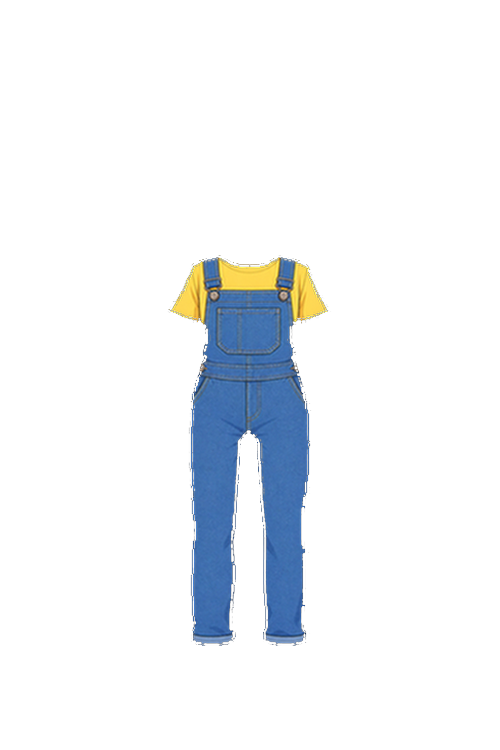
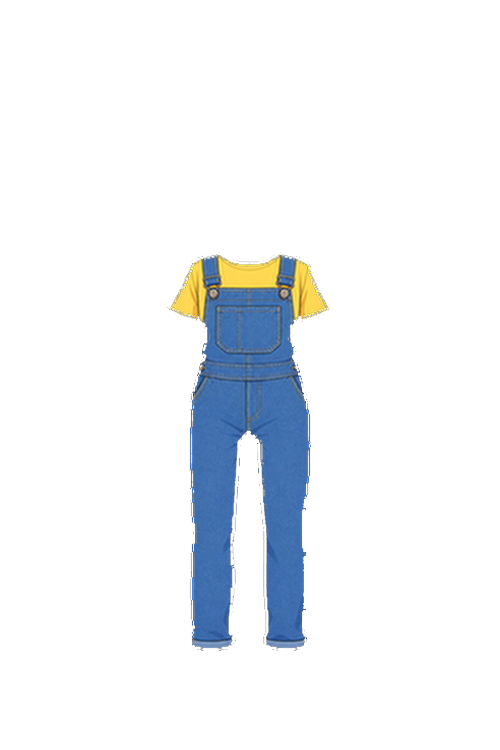
fix: オーバーオール・パジャマ2%拡大
Claude-Session: https://claude.ai/code/session_01XMvAfF4jxf9CbKyjmGTEy4

diff --git a/osewa.html b/osewa.html
@@ -803,8 +803,8 @@ window.onerror = function(msg, src, line) {
 var CLOTHES = [
   { name: 'ピンクドレス', img: 'doll_cloth_1.png?v=9', color: '#f9a8d4', shape: 'dress' },
   { name: 'みずいろドレス', img: 'doll_cloth_2.png?v=7', color: '#93c5fd', shape: 'dress' },
-  { name: 'オーバーオール', img: 'doll_cloth_3.png?v=17', color: '#5b8dbf', shape: 'overalls' },
-  { name: 'パジャマ', img: 'doll_cloth_4.png?v=16', color: '#f9c5d1', shape: 'pajama' },
+  { name: 'オーバーオール', img: 'doll_cloth_3.png?v=18', color: '#5b8dbf', shape: 'overalls' },
+  { name: 'パジャマ', img: 'doll_cloth_4.png?v=17', color: '#f9c5d1', shape: 'pajama' },
   { name: 'キラキラドレス', img: 'doll_cloth_5.png?v=7', color: '#f472b6', shape: 'dress' },
 ];
 